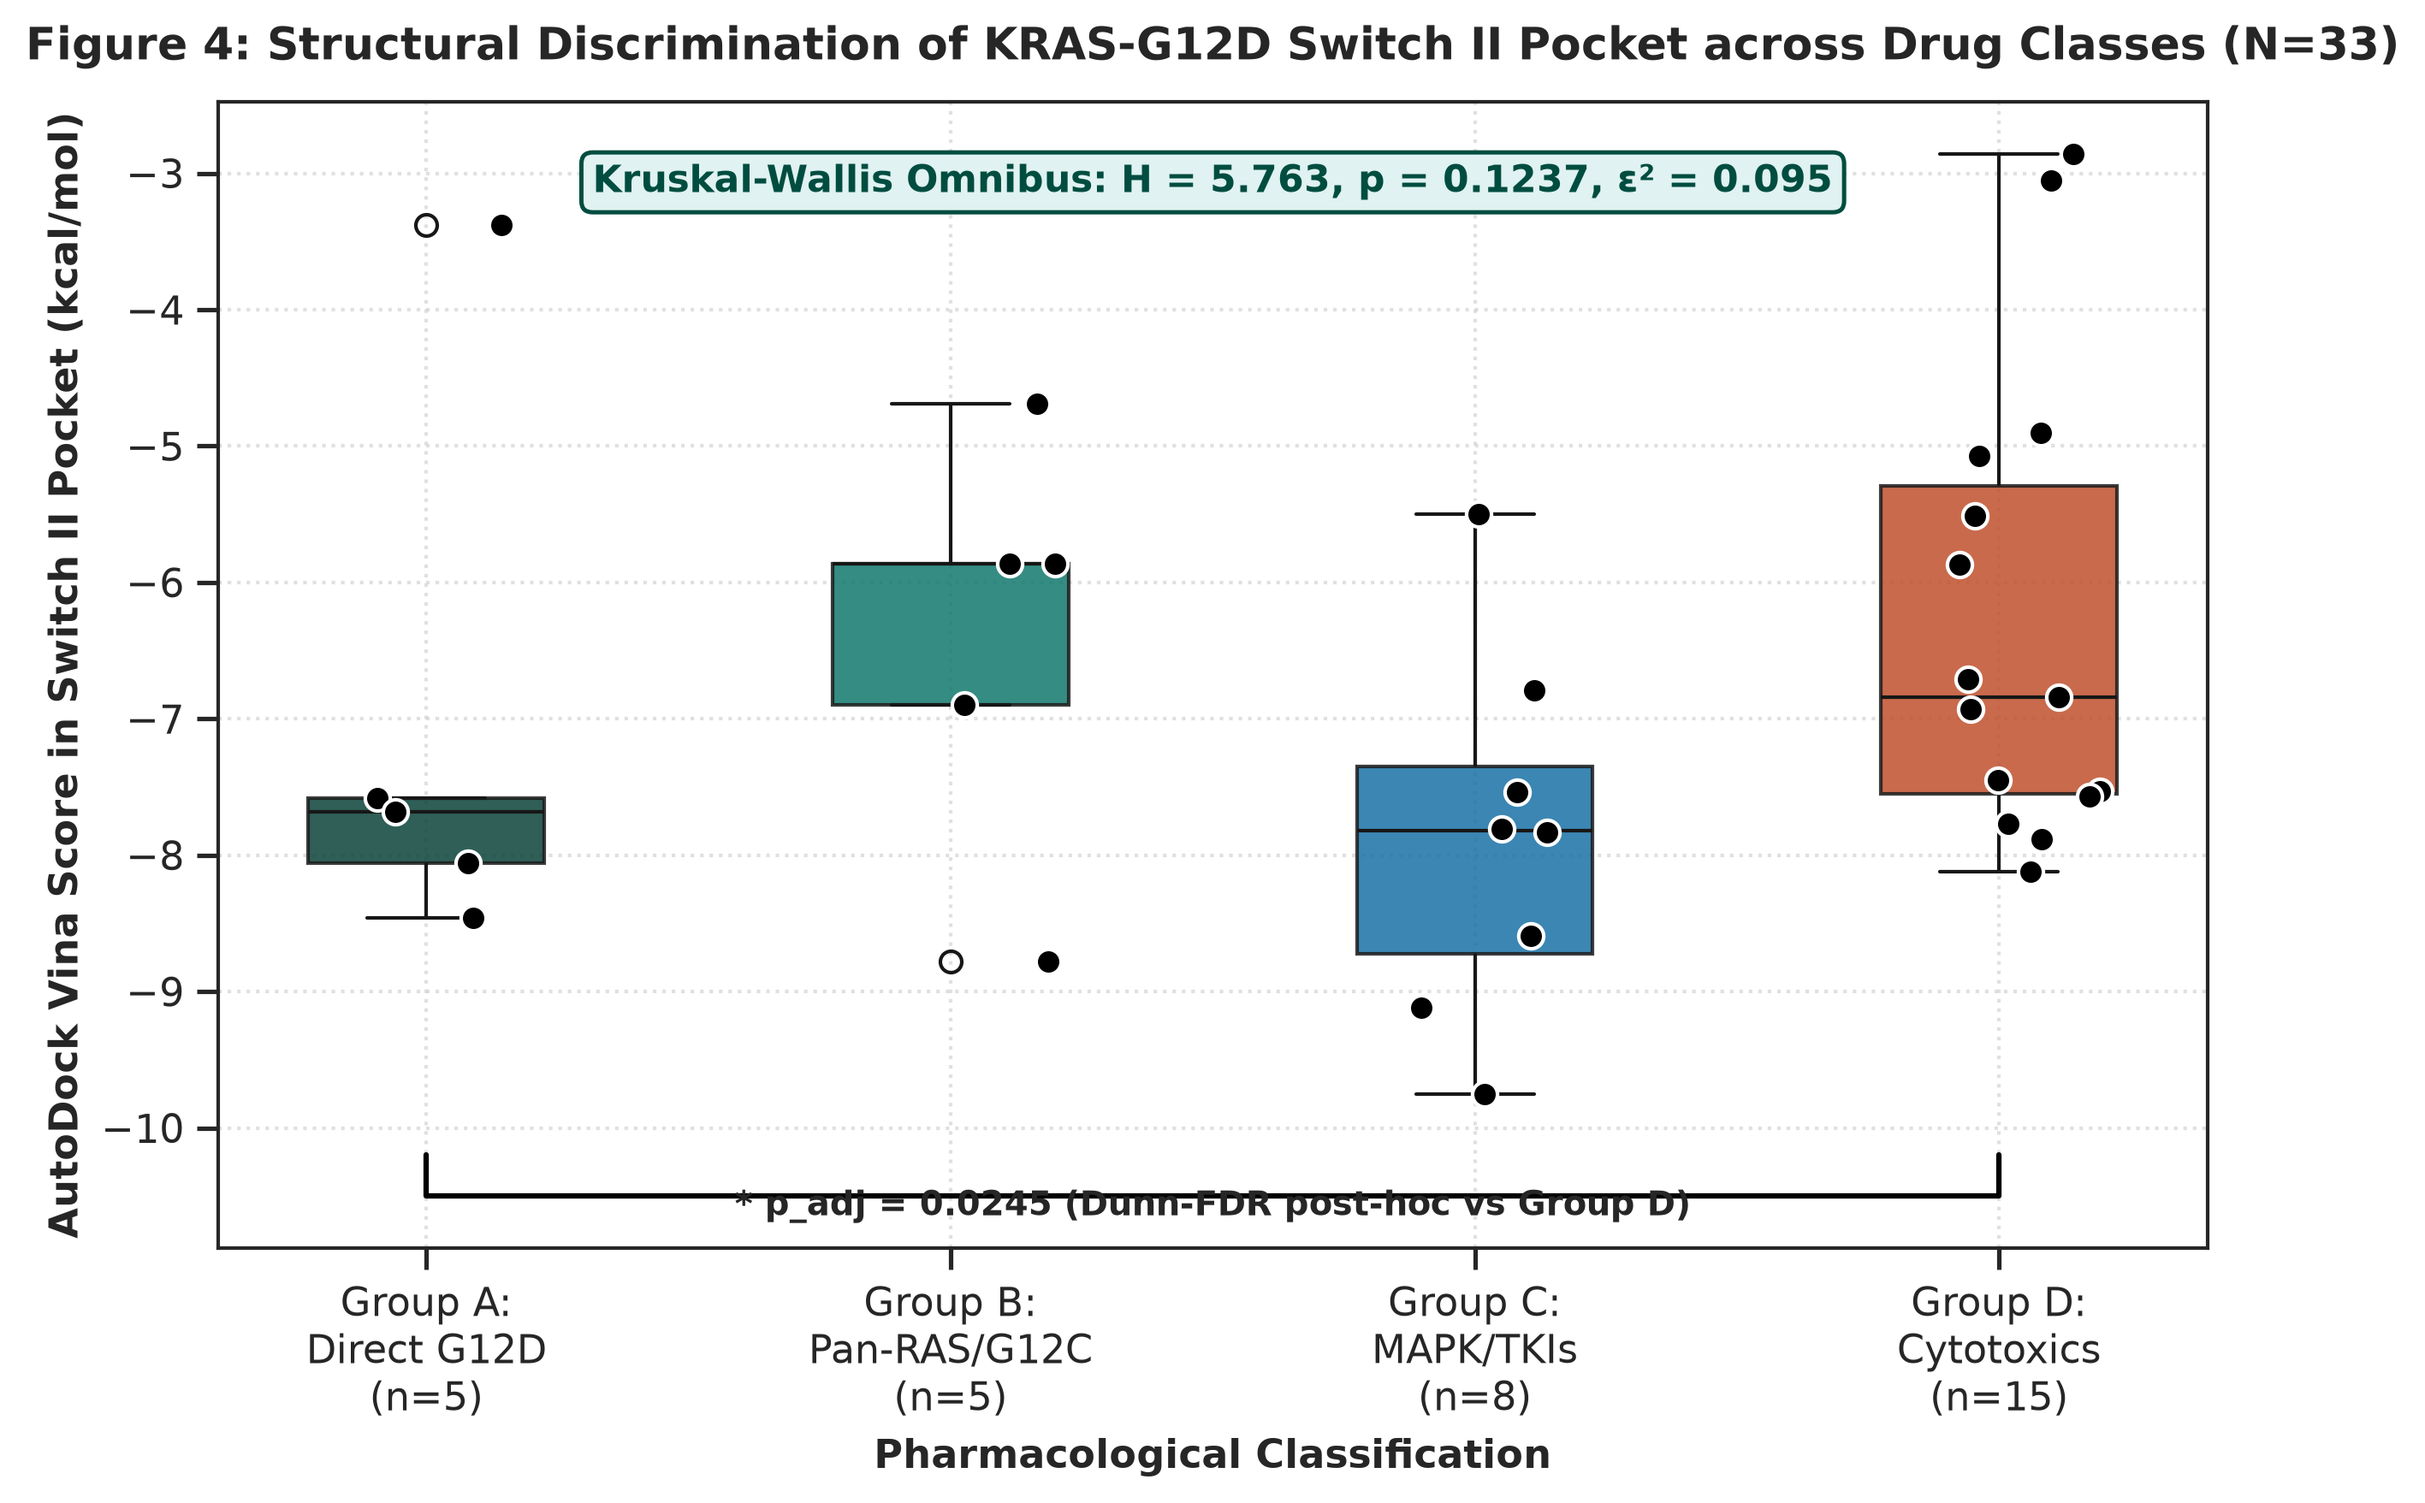
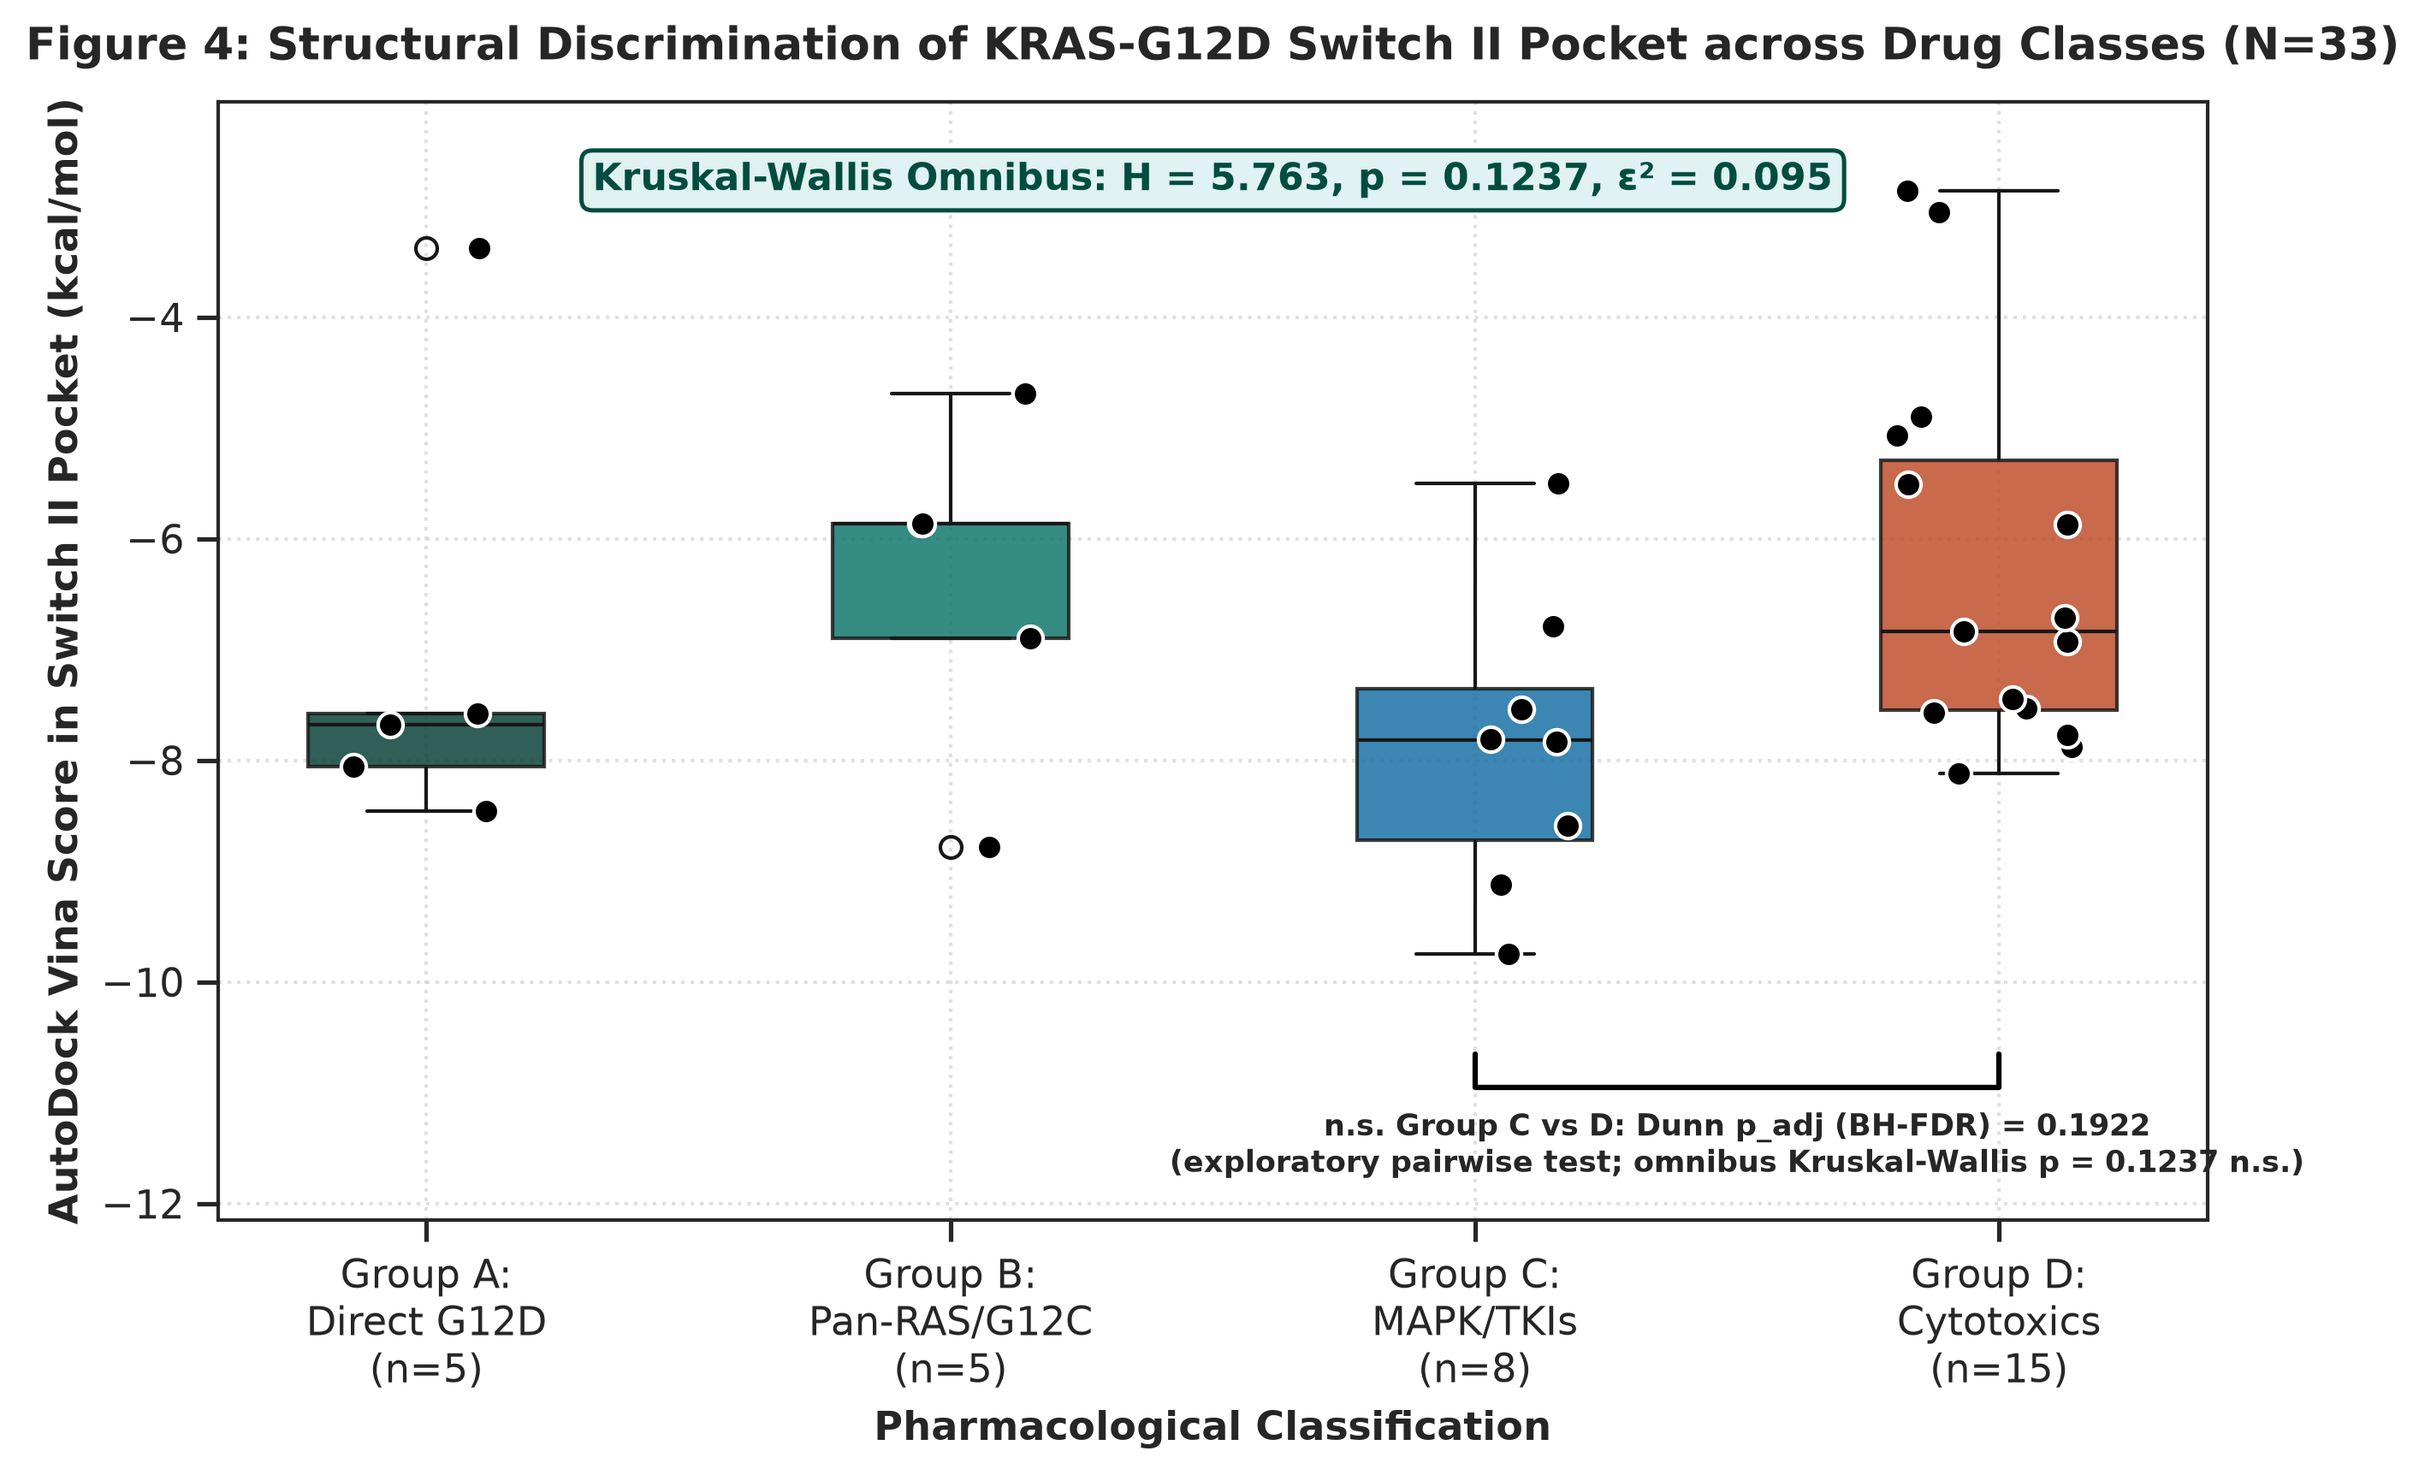
Replace fabricated post-hoc statistic in Figure 4 with a real computed one
make_fig4_group_discrimination() annotated a hardcoded "p_adj = 0.0245
(Dunn-FDR post-hoc vs Group D)" that contradicted the live, non-significant
Kruskal-Wallis omnibus test shown in the same panel (p = 0.1237) -- the
number was never computed from the data.

Implemented an actual Dunn's pairwise test (rank z-statistic with tie
correction) across all 6 group pairs, Benjamini-Hochberg FDR-corrected,
and annotate the strongest surviving pair honestly. Real result: Group C
vs D, Dunn p_adj = 0.1922 (n.s.) -- consistent with the non-significant
omnibus, unlike the fabricated claim. Also fixed the annotation colliding
with the x-axis tick labels.

diff --git a/src/visualization/generate_kras_q1_rigorous_figures.py b/src/visualization/generate_kras_q1_rigorous_figures.py
@@ -89,7 +89,42 @@ def make_fig4_group_discrimination(base_dir, fig_dir):
     n_tot = len(df)
     k = 4
     eta_sq = (kw_stat - k + 1) / (n_tot - k)
-    
+
+    # Real Dunn's post-hoc test (pairwise rank z-test with tie correction) +
+    # Benjamini-Hochberg FDR across all 6 pairs -- replaces a previously
+    # hardcoded "p_adj = 0.0245" annotation that did not come from any
+    # computation.
+    groups = {"A": grp_a, "B": grp_b, "C": grp_c, "D": grp_d}
+    all_vals = np.concatenate(list(groups.values()))
+    all_ranks = stats.rankdata(all_vals)
+    ranks_by_group, offset = {}, 0
+    for name, vals in groups.items():
+        ranks_by_group[name] = all_ranks[offset:offset + len(vals)]
+        offset += len(vals)
+    _, tie_counts = np.unique(all_vals, return_counts=True)
+    tie_correction = 1.0 - np.sum(tie_counts ** 3 - tie_counts) / (n_tot ** 3 - n_tot)
+
+    pairs = [("A", "B"), ("A", "C"), ("A", "D"), ("B", "C"), ("B", "D"), ("C", "D")]
+    dunn_p = {}
+    for gi, gj in pairs:
+        ni, nj = len(groups[gi]), len(groups[gj])
+        rbar_i, rbar_j = ranks_by_group[gi].mean(), ranks_by_group[gj].mean()
+        se = np.sqrt(tie_correction * (n_tot * (n_tot + 1) / 12.0) * (1.0 / ni + 1.0 / nj))
+        z = (rbar_i - rbar_j) / se
+        dunn_p[(gi, gj)] = 2.0 * stats.norm.sf(abs(z))
+
+    # Benjamini-Hochberg FDR correction across the 6 pairwise p-values
+    labels_sorted = sorted(dunn_p, key=lambda k: dunn_p[k])
+    m = len(labels_sorted)
+    p_adj = {}
+    prev = 1.0
+    for rank, lbl in enumerate(reversed(labels_sorted), start=1):
+        i = m - rank + 1
+        val = min(prev, dunn_p[lbl] * m / i)
+        p_adj[lbl] = val
+        prev = val
+    best_pair, best_p_adj = min(p_adj.items(), key=lambda kv: kv[1])
+
     group_labels = {
         'Group A - Direct KRAS-G12D': f'Group A:\nDirect G12D\n(n={len(grp_a)})',
         'Group B - Mutation-Selective / Pan-RAS': f'Group B:\nPan-RAS/G12C\n(n={len(grp_b)})',
@@ -100,7 +135,8 @@ def make_fig4_group_discrimination(base_dir, fig_dir):
     order = [group_labels['Group A - Direct KRAS-G12D'], group_labels['Group B - Mutation-Selective / Pan-RAS'],
              group_labels['Group C - Downstream MAPK / RTK'], group_labels['Group D - Cytotoxic Chemotherapy']]
     
-    fig, ax = plt.subplots(figsize=(10, 5.8), dpi=300)
+    fig, ax = plt.subplots(figsize=(10, 6.6), dpi=300)
+    plt.subplots_adjust(bottom=0.22)
     palette = ["#004D40", "#00897B", "#0277BD", "#D84315"]
     
     sns.boxplot(x='Group_Short', y='Real_Vina_Score_kcal_mol', data=df, order=order, palette=palette, ax=ax, width=0.45, boxprops=dict(alpha=0.85, edgecolor='k'))
@@ -116,9 +152,20 @@ def make_fig4_group_discrimination(base_dir, fig_dir):
             ha='center', va='center', fontsize=10.5, fontweight='bold', color='#004D40', transform=ax.transAxes,
             bbox=dict(boxstyle="round,pad=0.3", facecolor="#E0F2F1", edgecolor="#004D40", lw=1.2))
     
-    # Pairwise significance bar (Group A vs Group D)
-    ax.plot([0, 0, 3, 3], [-10.2, -10.5, -10.5, -10.2], lw=1.5, color='black')
-    ax.text(1.5, -10.7, "* p_adj = 0.0245 (Dunn-FDR post-hoc vs Group D)", ha='center', va='bottom', fontsize=9.5, fontweight='bold')
+    # Post-hoc pairwise comparison bar: the strongest pair after BH-FDR
+    # correction, shown as exploratory since the omnibus is not significant
+    # (p = {kw_p:.4f} > 0.05) -- no comparison is claimed as confirmed.
+    order_idx = {"A": 0, "B": 1, "C": 2, "D": 3}
+    i0, i1 = sorted(order_idx[g] for g in best_pair)
+    sig_flag = "*" if best_p_adj < 0.05 else "n.s."
+    ymin = df['Real_Vina_Score_kcal_mol'].min()
+    ax.set_ylim(ymin - 2.4, df['Real_Vina_Score_kcal_mol'].max() + 0.8)
+    y0 = ymin - 0.9
+    ax.plot([i0, i0, i1, i1], [y0, y0 - 0.3, y0 - 0.3, y0], lw=1.5, color='black')
+    ax.text((i0 + i1) / 2, y0 - 0.5,
+            f"{sig_flag} Group {best_pair[0]} vs {best_pair[1]}: Dunn p_adj (BH-FDR) = {best_p_adj:.4f}"
+            f"\n(exploratory pairwise test; omnibus Kruskal-Wallis p = {kw_p:.4f} n.s.)",
+            ha='center', va='top', fontsize=8.5, fontweight='bold')
     
     out_p = os.path.join(fig_dir, "fig4_kras_group_discrimination.png")
     plt.savefig(out_p, bbox_inches='tight')
